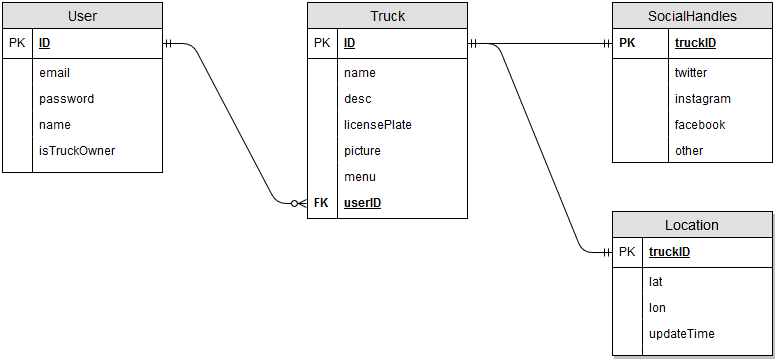
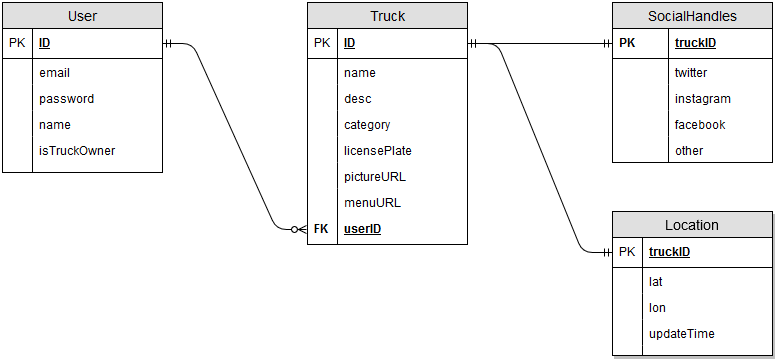
update models fields

diff --git a/models/truck.js b/models/truck.js
@@ -1,0 +1,46 @@
+module.exports = function (sequelize, DataTypes) {
+    var Truck = sequelize.define("Truck", {
+        name: {
+            type: DataTypes.STRING,
+            allowNull: false,
+        },
+        desc: {
+            type: DataTypes.STRING,
+            allowNull: true,
+        },
+        catagory: {
+            type: DataTypes.STRING,
+            allowNull: false,
+        },
+        licensePlate: {
+            type: DataTypes.STRING,
+            allowNull: false,
+        },
+        pictureURL: {
+            type: DataTypes.STRING,
+            allowNull: true,
+            validate: {
+                isUrl: true,
+                len: [1]
+            }
+        },
+        menuURL: {
+            type: DataTypes.STRING,
+            allowNull: true,
+            validate: {
+                isUrl: true,
+                len: [1]
+            }
+        }
+    });
+
+    Truck.associate = function (models) {
+        Truck.belongsTo(models.User, {
+            foreignKey: {
+                allowNull: false
+            }
+        });
+    };
+
+    return Truck;
+};

diff --git a/models/location.js b/models/location.js
@@ -15,6 +15,14 @@ module.exports = function (sequelize, DataTypes) {
                 isFloat: true,
                 len: [1]
             }
+        },
+        updateTime: {
+            type: DataTypes.DATE,
+            allowNull: false,
+            validate: {
+                isDate: true,
+                len: [1]
+            }
         }
     });
 
